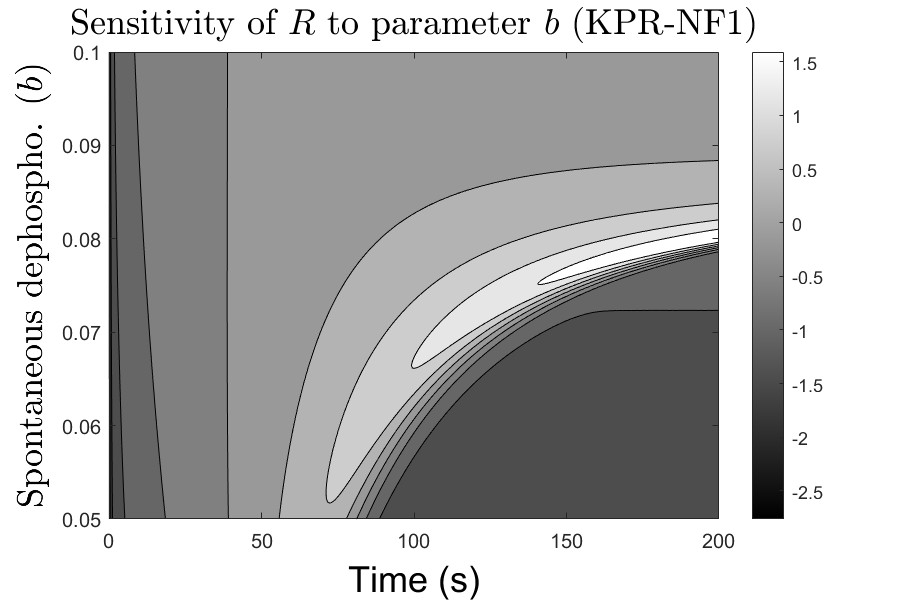
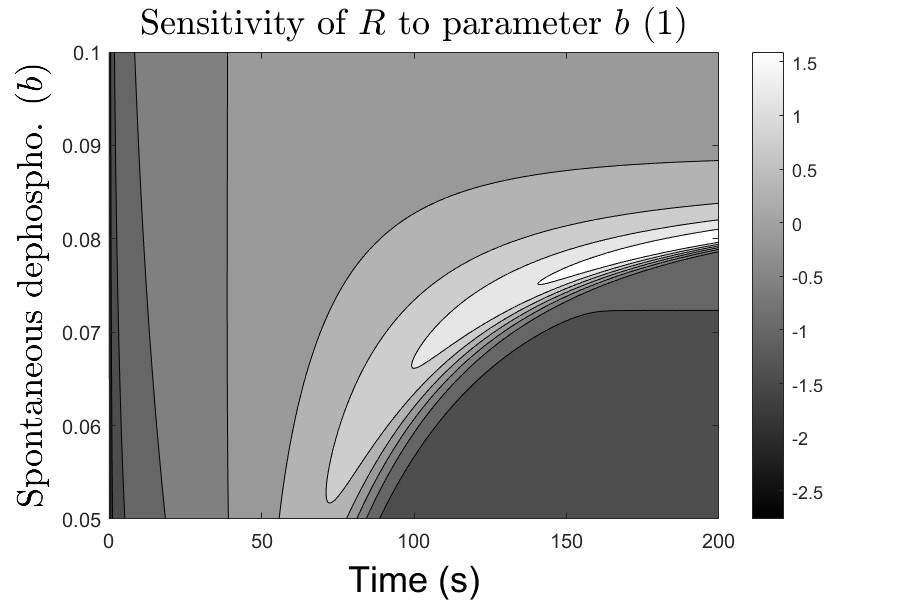
a

Changed region(s): [[0.0622, 0.0, 0.84, 0.06]]

diff --git a/Leveraging mathematical models P2/Sensitivity/Sensitivity Analysis/KPR_NF2_Sensitivity.m b/Leveraging mathematical models P2/Sensitivity/Sensitivity Analysis/KPR_NF2_Sensitivity.m
@@ -207,7 +207,7 @@ clear
 % colorbar;
 % xlabel('Time (s)', 'FontSize', 18, 'Color', 'k', 'FontWeight', 'normal');
 % ylabel('Spontaneous dephospho. ($b$)', 'Interpreter', 'latex', 'FontSize', 18, 'Color', 'k', 'FontWeight', 'normal');
-% title('Sensitivity of $R$ to parameter $b$ (KPR-NF2)', 'Interpreter', 'latex', 'FontSize', 18, 'FontWeight', 'bold', 'Color', 'k');
+% title('Sensitivity of $R$ to parameter $b$ (2)', 'Interpreter', 'latex', 'FontSize', 18, 'FontWeight', 'bold', 'Color', 'k');
 % set(gca, 'YDir', 'normal');
 % hold on
 % 
@@ -223,12 +223,12 @@ clear
 % % hold on
 % 
 % figure('Position', [100, 100, 600, 400]);
-% contourf(tspan, bVect, results_matrix, 10, 'LineColor', 'k');
+% contourf(tspan, bVect, results_matrix1, 10, 'LineColor', 'k');
 % colormap(gray);
 % colorbar;
 % xlabel('Time (s)', 'FontSize', 18, 'Color', 'k', 'FontWeight', 'normal');
 % ylabel('Spontaneous dephospho. ($b$)', 'Interpreter', 'latex', 'FontSize', 18, 'Color', 'k', 'FontWeight', 'normal');
-% title('Sensitivity of [SHP-1] to $b$', 'Interpreter', 'latex', 'FontSize', 18, 'FontWeight', 'bold', 'Color', 'k');
+% title('Sensitivity of $R$ to $b$ (2)', 'Interpreter', 'latex', 'FontSize', 18, 'FontWeight', 'bold', 'Color', 'k');
 % set(gca, 'YDir', 'normal');
 % hold on
 % 

diff --git a/Leveraging mathematical models P2/Sensitivity/Sensitivity Analysis/KPR_NF1_Sensitivity.m b/Leveraging mathematical models P2/Sensitivity/Sensitivity Analysis/KPR_NF1_Sensitivity.m
@@ -207,7 +207,7 @@ clear
 % colorbar;
 % xlabel('Time (s)', 'FontSize', 18, 'Color', 'k', 'FontWeight', 'normal');
 % ylabel('Spontaneous dephospho. ($b$)', 'Interpreter', 'latex', 'FontSize', 18, 'Color', 'k', 'FontWeight', 'normal');
-% title('Sensitivity of $R$ to parameter $b$ (KPR-NF1)', 'Interpreter', 'latex', 'FontSize', 18, 'FontWeight', 'bold', 'Color', 'k');
+% title('Sensitivity of $R$ to parameter $b$ (1)', 'Interpreter', 'latex', 'FontSize', 18, 'FontWeight', 'bold', 'Color', 'k');
 % set(gca, 'YDir', 'normal');
 % hold on
 
@@ -253,7 +253,7 @@ colormap(gray);
 colorbar;
 xlabel('Time (s)', 'FontSize', 18, 'Color', 'k', 'FontWeight', 'normal');
 ylabel('Dephospho. rate by SHP-1 ($\gamma$)', 'Interpreter', 'latex', 'FontSize', 18, 'Color', 'k', 'FontWeight', 'normal');
-title('Sensitivity of $R$ to parameter $\gamma$ (KPR-NF1)', 'Interpreter', 'latex', 'FontSize', 18, 'FontWeight', 'bold', 'Color', 'k');
+title('Sensitivity of $R$ to $\gamma$ (1)', 'Interpreter', 'latex', 'FontSize', 18, 'FontWeight', 'bold', 'Color', 'k');
 set(gca, 'YDir', 'normal');
 hold on
 
